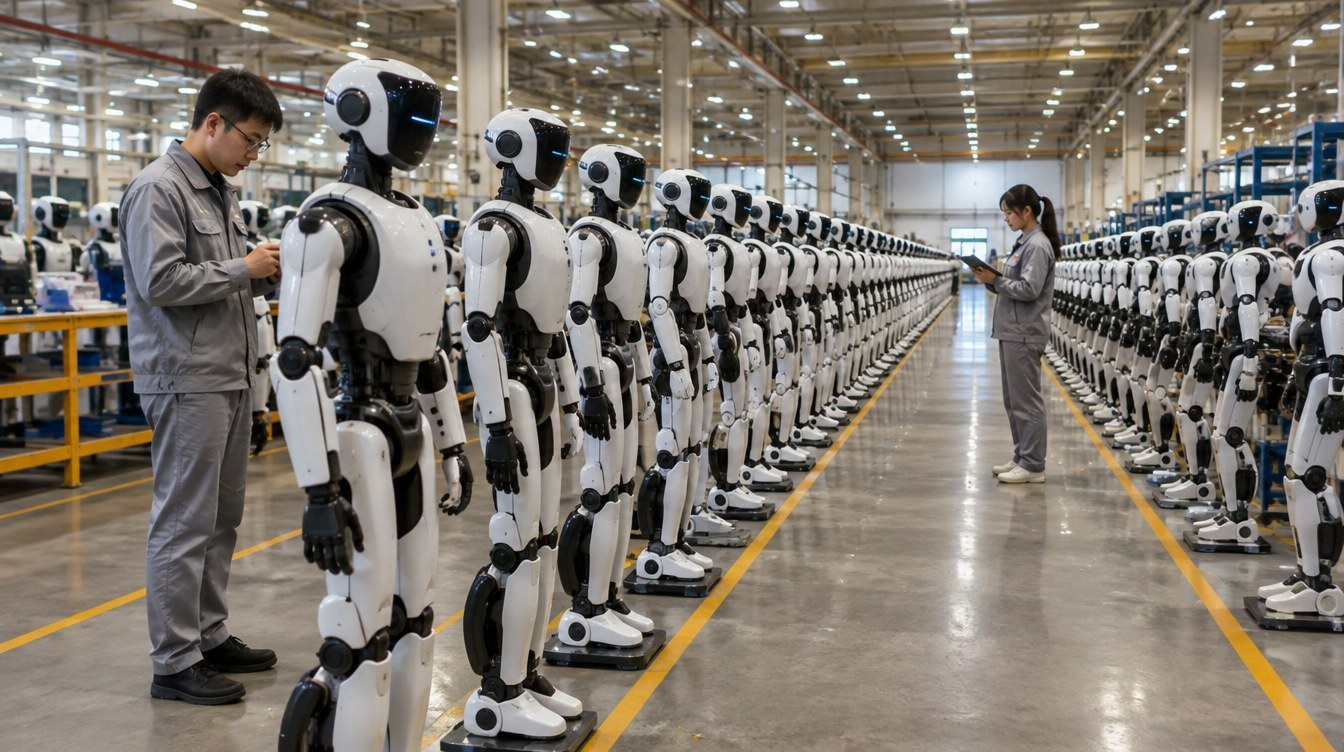
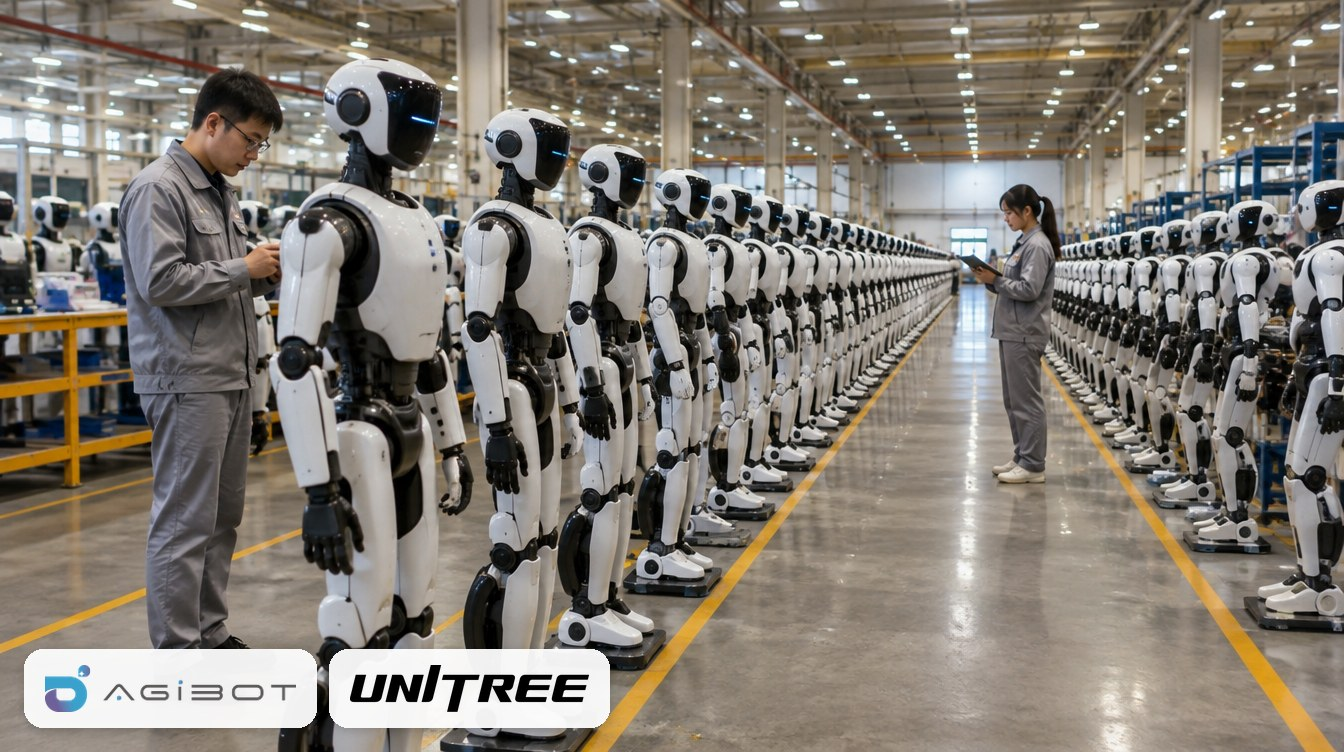
Картинки Aura Telegram №1–12: логотипы брендов, утверждено; правило логотипов, лист согласования
- логотип главного бренда поста на всех картинках, где он есть в тексте; нет у нас — с официального
  сайта или Wikimedia; не нашли настоящий — не ставим (CONTROL/IMAGE-RULES.md, раздел 2)
- CONTROL/LOGOS: agibot, unitree, flourish (+ ИСТОЧНИКИ.md); CONTROL/TOOLS/contact_sheet.py
- №1–12 утверждены пользователем

Claude-Session: https://claude.ai/code/session_01GWbvgKxue3PjjbbHEP4BVJ

Changed region(s): [[0.0, 0.8564, 0.4688, 0.9787]]

diff --git a/CONTROL/TOOLS/contact_sheet.py b/CONTROL/TOOLS/contact_sheet.py
@@ -1,0 +1,66 @@
+#!/usr/bin/env python3
+"""Лист картинок на согласование (CONTROL/IMAGE-RULES.md, раздел 7).
+
+python3 CONTROL/TOOLS/contact_sheet.py AURA/TELEGRAM 1 12 -o лист.jpg [--title "…"]
+Берёт тексты из <сеть>/TEXT (или <сеть>/<формат>/TEXT) по номеру в плане (поле number), картинки — из PHOTO
+(поле image), рисует сетку 3 в ряд: картинка, номер, дата и время, заголовок, статус.
+"""
+import argparse
+import glob
+import json
+from pathlib import Path
+
+from PIL import Image, ImageDraw, ImageFont
+
+HUB = Path(__file__).resolve().parents[2]
+FONT = HUB / 'AURA/BRAND/FONTS/Inter-variable.ttf'
+
+
+def meta_of(path):
+    fm = open(path, encoding='utf-8').read().split('---\n', 2)[1]
+    m = {}
+    for line in fm.strip().split('\n'):
+        k, v = line.split(': ', 1)
+        m[k] = json.loads(v) if v.startswith('"') else v
+    return m
+
+
+def main():
+    ap = argparse.ArgumentParser()
+    ap.add_argument('channel', help='например AURA/TELEGRAM или GTT/FACEBOOK/POST')
+    ap.add_argument('first', type=int)
+    ap.add_argument('last', type=int)
+    ap.add_argument('-o', '--out', required=True)
+    ap.add_argument('--title', default='')
+    a = ap.parse_args()
+    ch = HUB / a.channel
+    items = []
+    for f in sorted(glob.glob(str(ch / 'TEXT/*.md'))):
+        m = meta_of(f)
+        if a.first <= int(m['number']) <= a.last and m.get('image'):
+            items.append((int(m['number']), m, ch / 'PHOTO' / m['image']))
+    items.sort(key=lambda x: x[0])
+    cols, W, pad, cap = 3, 640, 24, 70
+    imgs = [Image.open(p).convert('RGB') for _, _, p in items]
+    H = round(W * imgs[0].height / imgs[0].width) if imgs else 360
+    rows = (len(items) + cols - 1) // cols
+    sheet = Image.new('RGB', (cols * W + (cols + 1) * pad, 80 + rows * (H + cap + pad) + pad), (244, 244, 246))
+    d = ImageDraw.Draw(sheet)
+    ft, fb, fs = (ImageFont.truetype(str(FONT), s) for s in (30, 20, 17))
+    d.text((pad, 24), a.title or f'{a.channel} · №{a.first}–{a.last}', font=ft, fill=(23, 23, 29))
+    for k, ((num, m, _), img) in enumerate(zip(items, imgs)):
+        x = pad + (k % cols) * (W + pad)
+        y = 80 + pad + (k // cols) * (H + cap + pad)
+        sheet.paste(img.resize((W, H), Image.LANCZOS), (x, y))
+        date = m['date']
+        when = f"{date[8:]}.{date[5:7]}" + (f" {m['time']}" if m.get('time') else '')
+        status = '' if m.get('image_status') == 'утверждено' else ' · на согласовании'
+        d.text((x, y + H + 8), f'№{num} · {when}{status}', font=fb, fill=(37, 99, 235))
+        t = m['title'] if len(m['title']) < 62 else m['title'][:60] + '…'
+        d.text((x, y + H + 36), t, font=fs, fill=(23, 23, 29))
+    sheet.save(a.out, quality=88)
+    print(a.out, len(items))
+
+
+if __name__ == '__main__':
+    main()

diff --git a/CONTROL/IMAGE-RULES.md b/CONTROL/IMAGE-RULES.md
@@ -14,15 +14,18 @@
 
 ## 2. Логотип бренда на картинке
 
-Если в тексте упоминается бренд, который **есть на сайте проекта**, и его **логотип есть в наших репозиториях**, логотип аккуратно
-встраиваем внизу слева: белая плашка со скруглёнными углами, логотип без лишних полей, единый размер на всех картинках.
+Если в тексте упоминается бренд, его **настоящий логотип** аккуратно встраиваем внизу слева: белая плашка со скруглёнными
+углами, логотип без лишних полей, единый размер на всех картинках (решение пользователя 10.10.2026: логотипы — на всех
+картинках, где в тексте есть бренд).
 
-- «Есть на сайте»: Aura — завод в каталоге aura-robotics.ru (`AURA/data/source/factories.csv`); GTT — компания в каталоге
-  globaltechtour.ru (`SINOTECH/src/data/companies.json`).
-- Ставим логотип главного бренда текста (о ком пост); если пост сравнивает двух — можно два. Больше двух — нет.
-- Откуда берём логотип: библиотека `VIDEO-HUB/source-videos/логотипы/` (список — `reels-studio/library/brands.json`), логотипы сайтов
-  (`SINOTECH/public/logos/`, логотипы заводов в `AURA`). Использованные логотипы копируются в `CONTROL/LOGOS/` — так любой агент
-  повторит картинку без доступа к другим репозиториям.
+- Ставим логотип главного бренда текста (о ком пост); если главных двое (сравнение, «первое и второе место») — два. Больше двух — нет.
+  Источник данных (аналитическое агентство, СМИ) — не бренд поста.
+- Откуда берём логотип, по порядку: `CONTROL/LOGOS/`; библиотека `VIDEO-HUB/source-videos/логотипы/`
+  (список — `reels-studio/library/brands.json`); логотипы сайтов (`SINOTECH/public/logos/`, логотипы заводов в `AURA`);
+  **нет у нас — ищем в интернете**: официальный сайт компании (шапка, пресс-кит), Wikimedia Commons.
+- Скачанный или взятый из другого репозитория логотип кладём в `CONTROL/LOGOS/` и записываем источник в
+  `CONTROL/LOGOS/ИСТОЧНИКИ.md` — так любой агент повторит картинку.
+- Настоящий логотип не нашли — не ставим. Логотипы не рисуем и не генерируем.
 - Наложение — `python3 CONTROL/TOOLS/logo_badge.py <картинка> <логотип> [<логотип2>] -o <результат.jpg>`.
 
 ## 3. Стоимость

diff --git a/CONTROL/LOGOS/ИСТОЧНИКИ.md b/CONTROL/LOGOS/ИСТОЧНИКИ.md
@@ -1,0 +1,13 @@
+# Логотипы для картинок — откуда взяты
+
+Логотип ставится только настоящий: из наших репозиториев или с официального сайта компании / Wikimedia Commons.
+Не нашли настоящий — логотип не ставим и не рисуем сами.
+
+| Файл | Компания | Источник |
+|---|---|---|
+| `ubtech.svg` | UBTech Robotics | `VIDEO-HUB/source-videos/логотипы/техгиганты/ubtech.svg` |
+| `agibot.png` | AgiBot | `VIDEO-HUB/source-videos/логотипы/роботы/agibot.png` |
+| `unitree.png` | Unitree Robotics | `VIDEO-HUB/source-videos/логотипы/техгиганты/unitree.png` |
+| `flourish.png` | Flourish Robots | официальный сайт https://flourish-robots.com/ (логотип в шапке), 10.10.2026 |
+
+Не найдено (логотип не ставим): Jinshi Intelligent Robot (Жэньцю) — официального сайта нет.

diff --git a/AURA/TELEGRAM/TEXT/2026-11-01_0900_gumanoidov-stalo-mnogo-raboty-dlya-nikh.md b/AURA/TELEGRAM/TEXT/2026-11-01_0900_gumanoidov-stalo-mnogo-raboty-dlya-nikh.md
@@ -6,11 +6,11 @@ rubric: "Сводка"
 title: "Гуманоидов стало много. Работы для них пока меньше"
 source: "CONTROL/SOURCES/2026-10-10_тексты-ноябрь-декабрь/01_Telegram_Aura_Robotics_120_постов.docx"
 image: "2026-11-01_0900_gumanoidov-stalo-mnogo-raboty-dlya-nikh.jpg"
-image_status: "на согласовании"
+image_status: "утверждено"
 image_model: "gpt_image_2_5 medium 1k 16:9"
 image_job: "ce42ec24-f967-42f7-a48f-f6f9547cc2e8"
 image_cost: "0.5"
-image_logos: ""
+image_logos: "agibot, unitree"
 image_prompt: "Chinese robot assembly hall, rows of compact humanoid robots before shipment, technicians with tablets"
 ---
 

diff --git a/AURA/TELEGRAM/TEXT/2026-11-01_1800_unitree-g1-sheya-est-lishnikh-slov.md b/AURA/TELEGRAM/TEXT/2026-11-01_1800_unitree-g1-sheya-est-lishnikh-slov.md
@@ -6,11 +6,11 @@ rubric: "Робот недели"
 title: "Unitree G1+: шея есть, лишних слов нет"
 source: "CONTROL/SOURCES/2026-10-10_тексты-ноябрь-декабрь/01_Telegram_Aura_Robotics_120_постов.docx"
 image: "2026-11-01_1800_unitree-g1-sheya-est-lishnikh-slov.jpg"
-image_status: "на согласовании"
+image_status: "утверждено"
 image_model: "gpt_image_2_5 medium 1k 16:9"
 image_job: "cc898e7e-5a88-485b-b678-ad815104d8ab"
 image_cost: "0.5"
-image_logos: ""
+image_logos: "unitree"
 image_prompt: "compact grey-black humanoid robot ~1.3 m tilting its head in a university lab, two engineers with laptop"
 ---
 

diff --git a/AURA/TELEGRAM/TEXT/2026-11-02_0900_tsena-gumanoida-lestnitse-vniz.md b/AURA/TELEGRAM/TEXT/2026-11-02_0900_tsena-gumanoida-lestnitse-vniz.md
@@ -6,11 +6,11 @@ rubric: "Сводка"
 title: "Цена гуманоида: по лестнице вниз"
 source: "CONTROL/SOURCES/2026-10-10_тексты-ноябрь-декабрь/01_Telegram_Aura_Robotics_120_постов.docx"
 image: "2026-11-02_0900_tsena-gumanoida-lestnitse-vniz.jpg"
-image_status: "на согласовании"
+image_status: "утверждено"
 image_model: "gpt_image_2_5 medium 1k 16:9"
 image_job: "977b091d-9d97-4e31-8b74-73262056dfe1"
 image_cost: "0.5"
-image_logos: ""
+image_logos: "unitree, ubtech"
 image_prompt: "compact humanoid robot on a wide concrete staircase, low angle, steps descending toward camera"
 ---
 

diff --git a/AURA/TELEGRAM/TEXT/2026-11-06_1800_gumanoid-raspberry-pi.md b/AURA/TELEGRAM/TEXT/2026-11-06_1800_gumanoid-raspberry-pi.md
@@ -6,11 +6,11 @@ rubric: "Курьёз недели"
 title: "Гуманоид на Raspberry Pi"
 source: "CONTROL/SOURCES/2026-10-10_тексты-ноябрь-декабрь/01_Telegram_Aura_Robotics_120_постов.docx"
 image: "2026-11-06_1800_gumanoid-raspberry-pi.jpg"
-image_status: "на согласовании"
+image_status: "утверждено"
 image_model: "gpt_image_2_5 medium 1k 16:9"
 image_job: "42bfaea1-08ae-4575-9eb1-69f5717fd9e2"
 image_cost: "0.5"
-image_logos: ""
+image_logos: "flourish"
 image_prompt: "small six-wheeled home robot with two arms mimicking a man who waves to teach it, living room"
 ---
 

diff --git a/AURA/TELEGRAM/TEXT/2026-11-04_0900_unitree-aktsii-gorki.md b/AURA/TELEGRAM/TEXT/2026-11-04_0900_unitree-aktsii-gorki.md
@@ -6,11 +6,11 @@ rubric: "Сводка"
 title: "Unitree: акции с горки"
 source: "CONTROL/SOURCES/2026-10-10_тексты-ноябрь-декабрь/01_Telegram_Aura_Robotics_120_постов.docx"
 image: "2026-11-04_0900_unitree-aktsii-gorki.jpg"
-image_status: "на согласовании"
+image_status: "утверждено"
 image_model: "gpt_image_2_5 medium 1k 16:9"
 image_job: "9c57a577-7673-4a98-a849-852adc6eb4af"
 image_cost: "0.5"
-image_logos: ""
+image_logos: "unitree"
 image_prompt: "compact humanoid robot in a trading room looking at abstract green and red graph lines going up then down"
 ---
 

diff --git a/AURA/TELEGRAM/TEXT/2026-11-05_1800_ponyat-chto-zavod-nastoyashchiy-esli-ya.md b/AURA/TELEGRAM/TEXT/2026-11-05_1800_ponyat-chto-zavod-nastoyashchiy-esli-ya.md
@@ -6,7 +6,7 @@ rubric: "Вопрос покупателя"
 title: "«Как понять, что завод настоящий, если я в Китае ни разу не был?»"
 source: "CONTROL/SOURCES/2026-10-10_тексты-ноябрь-декабрь/01_Telegram_Aura_Robotics_120_постов.docx"
 image: "2026-11-05_1800_ponyat-chto-zavod-nastoyashchiy-esli-ya.jpg"
-image_status: "на согласовании"
+image_status: "утверждено"
 image_model: "gpt_image_2_5 medium 1k 16:9"
 image_job: "e55d60b0-3882-4302-97e8-eb429db5ecaa"
 image_cost: "0.5"

diff --git a/AURA/TELEGRAM/TEXT/2026-11-05_0900_svarshchik-iz-khebeya-edet-rossiyskuyu-stroyku.md b/AURA/TELEGRAM/TEXT/2026-11-05_0900_svarshchik-iz-khebeya-edet-rossiyskuyu-stroyku.md
@@ -6,7 +6,7 @@ rubric: "Сводка"
 title: "Сварщик из Хэбэя едет на российскую стройку"
 source: "CONTROL/SOURCES/2026-10-10_тексты-ноябрь-декабрь/01_Telegram_Aura_Robotics_120_постов.docx"
 image: "2026-11-05_0900_svarshchik-iz-khebeya-edet-rossiyskuyu-stroyku.jpg"
-image_status: "на согласовании"
+image_status: "утверждено"
 image_model: "gpt_image_2_5 medium 1k 16:9"
 image_job: "5bb2a0d1-dd7c-4f89-bd89-4b5b99e97781"
 image_cost: "0.5"

diff --git a/AURA/TELEGRAM/TEXT/2026-11-02_1800_mif-robot-rabotaet-bez-vykhodnykh.md b/AURA/TELEGRAM/TEXT/2026-11-02_1800_mif-robot-rabotaet-bez-vykhodnykh.md
@@ -6,7 +6,7 @@ rubric: "Миф о роботах и правда"
 title: "Миф: робот работает без выходных"
 source: "CONTROL/SOURCES/2026-10-10_тексты-ноябрь-декабрь/01_Telegram_Aura_Robotics_120_постов.docx"
 image: "2026-11-02_1800_mif-robot-rabotaet-bez-vykhodnykh.jpg"
-image_status: "на согласовании"
+image_status: "утверждено"
 image_model: "gpt_image_2_5 medium 1k 16:9"
 image_job: "bef1b281-728e-402c-9878-fd1379b2ef19"
 image_cost: "0.5"

diff --git a/AURA/TELEGRAM/TEXT/2026-11-03_0900_arenda-gumanoida-30-tysyach-do-tysyachi.md b/AURA/TELEGRAM/TEXT/2026-11-03_0900_arenda-gumanoida-30-tysyach-do-tysyachi.md
@@ -6,7 +6,7 @@ rubric: "Сводка"
 title: "Аренда гуманоида: с 30 тысяч до тысячи в день"
 source: "CONTROL/SOURCES/2026-10-10_тексты-ноябрь-декабрь/01_Telegram_Aura_Robotics_120_постов.docx"
 image: "2026-11-03_0900_arenda-gumanoida-30-tysyach-do-tysyachi.jpg"
-image_status: "на согласовании"
+image_status: "утверждено"
 image_model: "gpt_image_2_5 medium 1k 16:9"
 image_job: "1d5c6cee-016b-4505-af7b-44fa1042e9c0"
 image_cost: "0.5"
